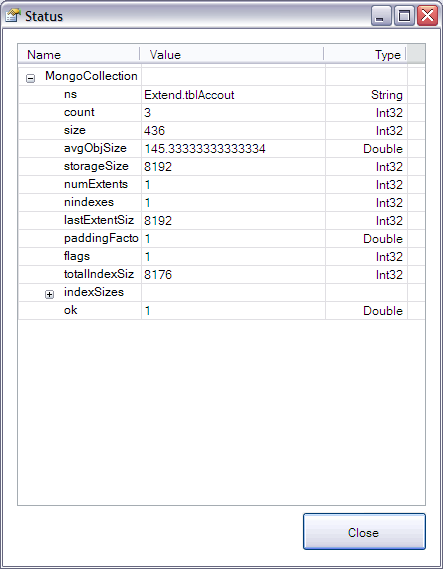
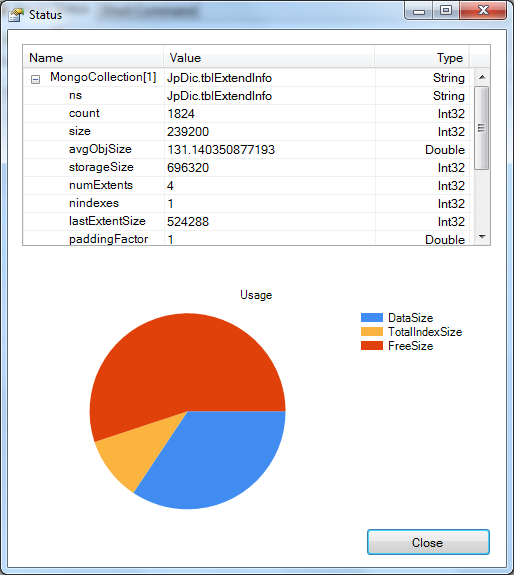
Freeze UI when expend all treeview node

Changed region(s): [[0.0, 0.0, 1.0, 1.0], [0.4695, 0.478, 0.5282, 0.5378]]

diff --git a/MagicMongoDBTool/UserGuide/index.htm b/MagicMongoDBTool/UserGuide/index.htm
@@ -146,6 +146,12 @@ MongoCola is free and open source.
 ========================================================================
 Release History
 ========================================================================
+Ver 1.25 2013/01/13
+1.Add chart to DB status and Collection status.
+2.Use BeginUpdate,EndUpdate to freeze UI when expend treeview.
+3.Show oldCollection name when the collection rename dialog is shown 
+========================================================================
+
 Ver 1.24 2013/01/06 [Back to IBM GDC]
 1.Upgrade to C# Driver to 1.7.1
 2.System.Windows.Forms.DataVisualization.dll For Data Visualization

diff --git a/MagicMongoDBTool/Form/frmStatus.cs b/MagicMongoDBTool/Form/frmStatus.cs
@@ -20,6 +20,8 @@ namespace MagicMongoDBTool
             String strType = SystemManager.SelectTagType;
             List<BsonDocument> SrvDocList = new List<BsonDocument>();
             BsonDocument cr = new BsonDocument();
+            cmbChartField.Visible = false;
+            chartResult.Visible = false;
             switch (strType)
             {
                 case MongoDBHelper.SERVER_TAG:
@@ -27,11 +29,16 @@ namespace MagicMongoDBTool
                     if (SystemManager.GetCurrentServerConfig().LoginAsAdmin)
                     {
                         cr = MongoDBHelper.ExecuteMongoSvrCommand(MongoDBHelper.serverStatus_Command, SystemManager.GetCurrentServer()).Response;
+                        this.trvStatus.Height = this.trvStatus.Height * 2;
+
                     }
                     break;
                 case MongoDBHelper.DATABASE_TAG:
                 case MongoDBHelper.SINGLE_DATABASE_TAG:
                     cr = SystemManager.GetCurrentDataBase().GetStats().Response.ToBsonDocument();
+                    cmbChartField.Visible = true;
+                    chartResult.Visible = true;
+
                     cmbChartField.Items.Add("AverageObjectSize");
                     cmbChartField.Items.Add("DataSize");
                     cmbChartField.Items.Add("ExtentCount");
@@ -46,8 +53,9 @@ namespace MagicMongoDBTool
                     break;
                 case MongoDBHelper.COLLECTION_TAG:
                     cr = SystemManager.GetCurrentCollection().GetStats().Response.ToBsonDocument();
-                    cmbChartField.Visible = false;
                     //图形化初始化
+                    chartResult.Visible = true;
+
                     chartResult.Series.Clear();
                     chartResult.Titles.Clear();
                     Series SeriesResult = new Series("Usage");
@@ -63,8 +71,8 @@ namespace MagicMongoDBTool
                     dpTotalIndexSize.ToolTip = "TotalIndexSize";
                     SeriesResult.Points.Add(dpTotalIndexSize);
 
-                    DataPoint dpFreeSize = new DataPoint(0, SystemManager.GetCurrentCollection().GetStats().StorageSize - 
-                                                               SystemManager.GetCurrentCollection().GetStats().TotalIndexSize - 
+                    DataPoint dpFreeSize = new DataPoint(0, SystemManager.GetCurrentCollection().GetStats().StorageSize -
+                                                               SystemManager.GetCurrentCollection().GetStats().TotalIndexSize -
                                                                SystemManager.GetCurrentCollection().GetStats().DataSize);
                     dpFreeSize.LegendText = "FreeSize";
                     dpFreeSize.LegendToolTip = "FreeSize";
@@ -80,6 +88,7 @@ namespace MagicMongoDBTool
                     if (SystemManager.GetCurrentServerConfig().LoginAsAdmin)
                     {
                         cr = MongoDBHelper.ExecuteMongoSvrCommand(MongoDBHelper.serverStatus_Command, SystemManager.GetCurrentServer()).Response;
+                        this.trvStatus.Height = this.trvStatus.Height * 2;
                     }
                     break;
             }

diff --git a/MagicMongoDBTool/Form/frmMain.cs b/MagicMongoDBTool/Form/frmMain.cs
@@ -36,7 +36,7 @@ namespace MagicMongoDBTool
                 toolStripMenuItem12.Visible = false;
                 ForMySelfToolStripMenuItem.Visible = false;
             }
-            this.Text += SystemManager.Version;
+            this.Text += "  " + SystemManager.Version;
             this.Icon = System.Drawing.Icon.ExtractAssociatedIcon(Application.ExecutablePath);
             if (SystemManager.MONO_MODE)
             {
@@ -1332,7 +1332,9 @@ namespace MagicMongoDBTool
         /// <param name="e"></param>
         private void CollapseAllToolStripMenuItem_Click(object sender, EventArgs e)
         {
+            this.trvsrvlst.BeginUpdate();
             this.trvsrvlst.ExpandAll();
+            this.trvsrvlst.EndUpdate();
         }
         /// <summary>
         /// Exit Application

diff --git a/MagicMongoDBTool/Form/frmMapReduce.cs b/MagicMongoDBTool/Form/frmMapReduce.cs
@@ -58,7 +58,9 @@ namespace MagicMongoDBTool
             List<BsonDocument> result = new List<BsonDocument>();
             result.Add(rtn.Response);
             MongoDBHelper.FillDataToTreeView("MapReduce Result", trvResult, result,0);
+            trvResult.DatatreeView.BeginUpdate();
             trvResult.DatatreeView.ExpandAll();
+            trvResult.DatatreeView.EndUpdate();
         }
         /// <summary>
         /// 保存MapJs

diff --git a/MagicMongoDBTool/Properties/AssemblyInfo.cs b/MagicMongoDBTool/Properties/AssemblyInfo.cs
@@ -32,5 +32,5 @@ using System.Runtime.InteropServices;
 // You can specify all the values or you can default the Build and Revision Numbers 
 // by using the '*' as shown below:
 // [assembly: AssemblyVersion("1.0.*")]
-[assembly: AssemblyVersion("1.2.4.0")]
-[assembly: AssemblyFileVersion("1.2.4.0")]
+[assembly: AssemblyVersion("1.2.5.0")]
+[assembly: AssemblyFileVersion("1.2.5.0")]

diff --git a/MagicMongoDBTool/UserController/ctlDataView.cs b/MagicMongoDBTool/UserController/ctlDataView.cs
@@ -267,7 +267,9 @@ namespace MagicMongoDBTool.UserController
         /// <param name="e"></param>
         private void ExpandAll_Click(object sender, EventArgs e)
         {
+            trvData.DatatreeView.BeginUpdate();
             trvData.DatatreeView.ExpandAll();
+            trvData.DatatreeView.EndUpdate();
         }
         /// <summary>
         /// 折叠所有

diff --git a/MagicMongoDBTool/Module/System/SystemManager.cs b/MagicMongoDBTool/Module/System/SystemManager.cs
@@ -21,7 +21,7 @@ namespace MagicMongoDBTool.Module
         /// <summary>
         /// 版本号
         /// </summary>
-        public static String Version = "1.2.4";
+        public static String Version = Application.ProductVersion;
         /// <summary>
         /// 配置实例
         /// </summary>
